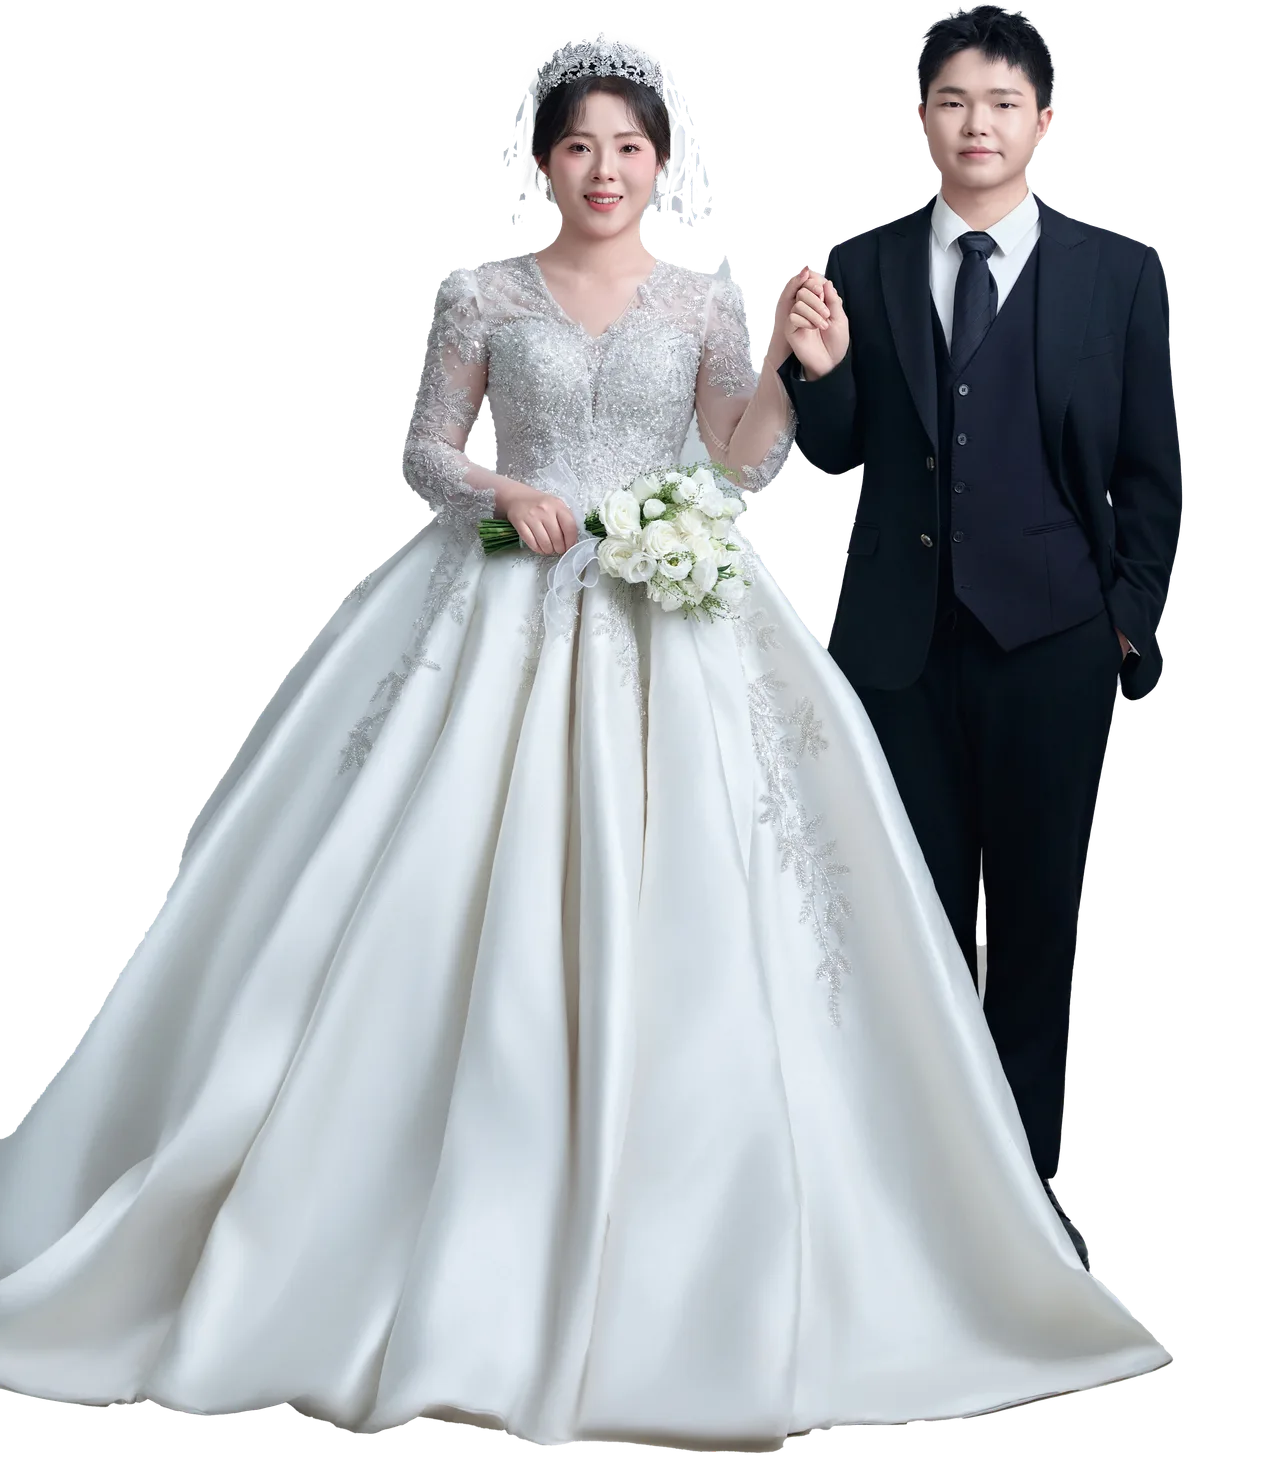
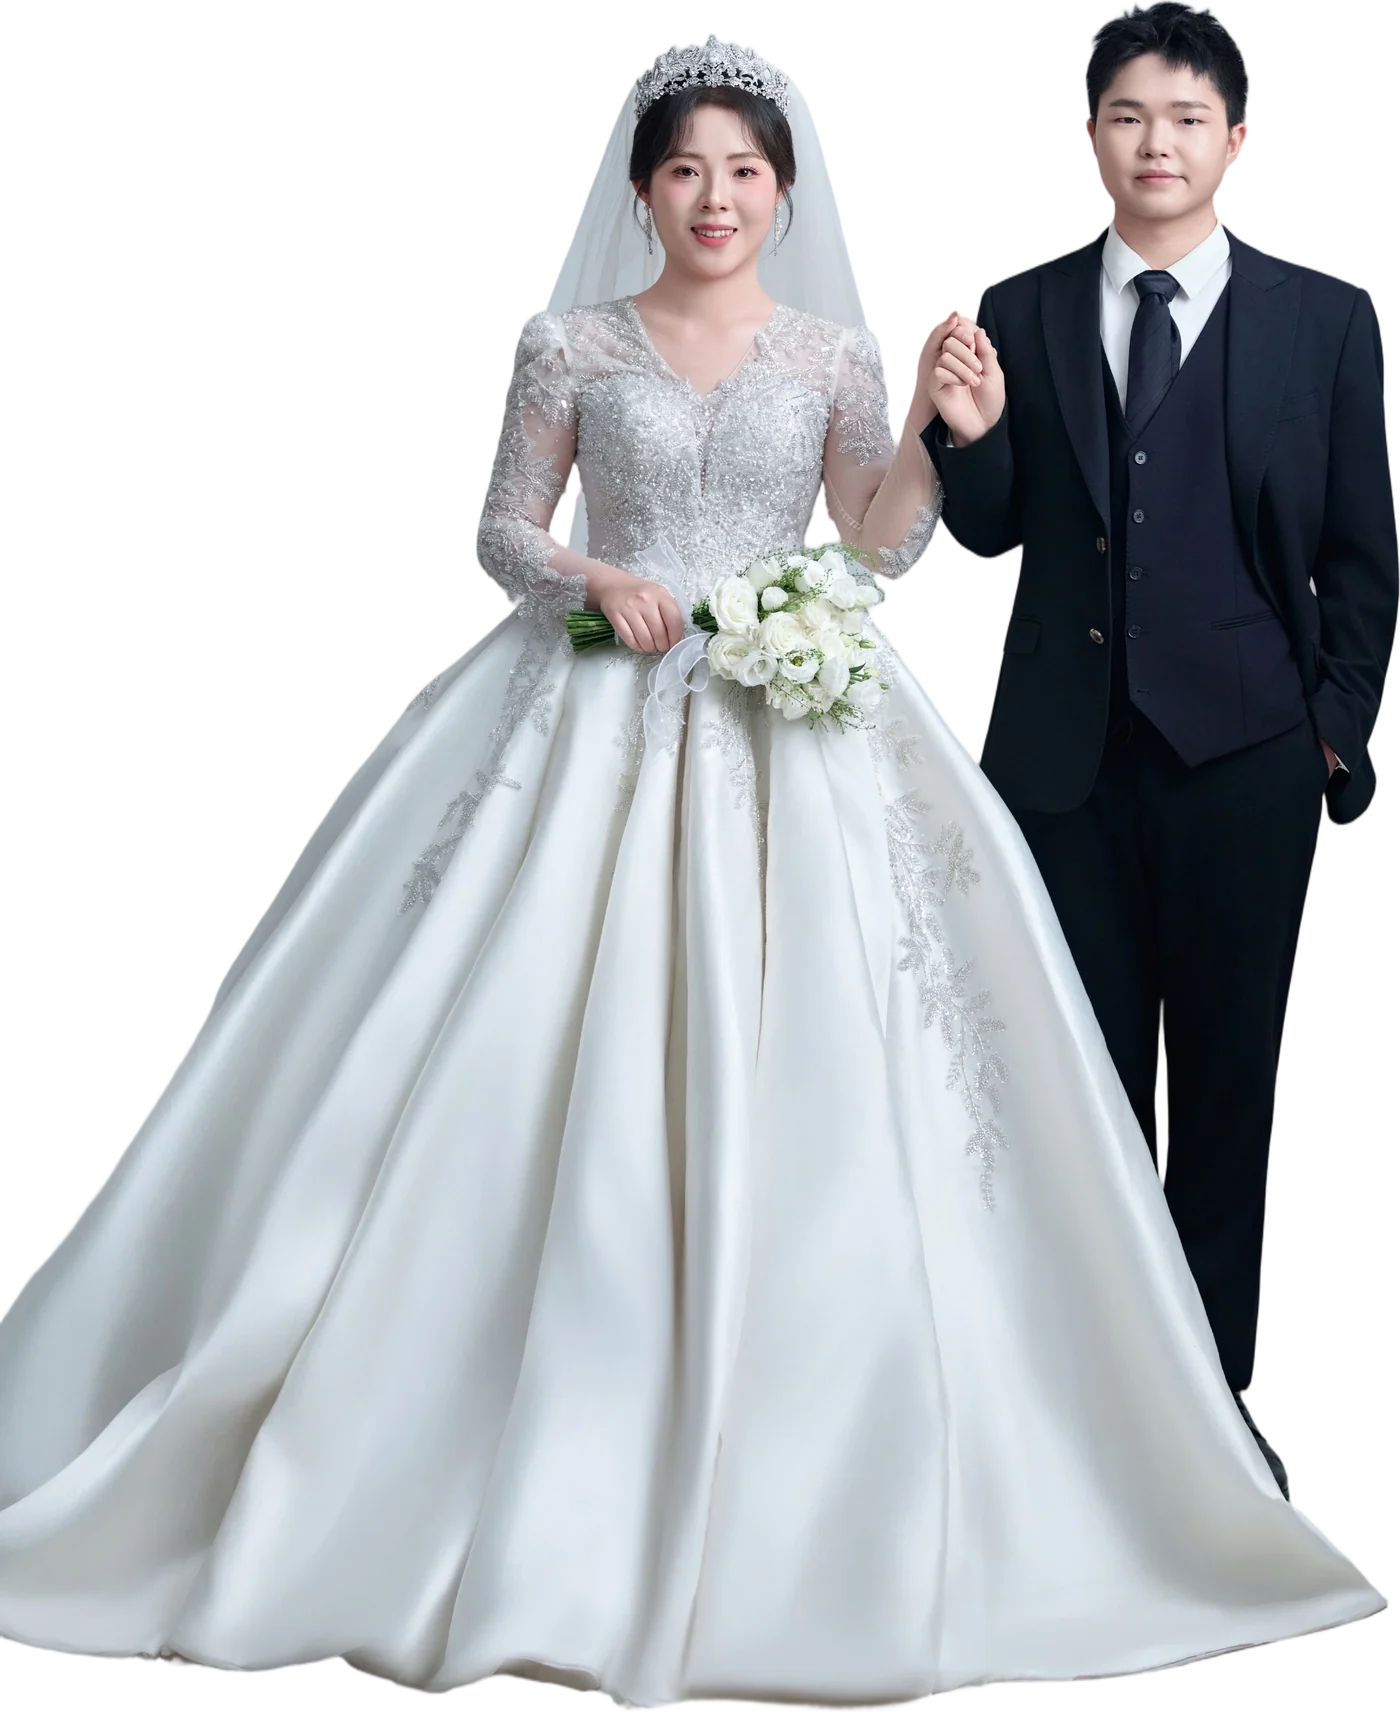
Update closing portrait cutout and processing pipeline
Replace the closing webp with a transparent cutout export, add a reproducible optimize script, and tune closing photo styles for clearer edges and stable placement.

diff --git a/src/styles.css b/src/styles.css
@@ -326,7 +326,7 @@ a {
   display: grid;
   gap: 13px;
   place-items: center;
-  width: min(82vw, 320px);
+  width: min(92vw, 360px);
   min-height: 300px;
   padding: 54px 24px;
   color: var(--rose);
@@ -357,9 +357,10 @@ a {
 .music-gate-button strong {
   color: #7a5b52;
   font-family: "STSong", "Songti SC", "Noto Serif SC", serif;
-  font-size: clamp(2.1rem, 10vw, 3.25rem);
+  font-size: clamp(1.75rem, 6.8vw, 3.25rem);
   font-weight: 500;
-  letter-spacing: 0.08em;
+  letter-spacing: 0.06em;
+  white-space: nowrap;
   text-shadow: 0 14px 34px rgba(158, 88, 80, 0.14);
 }
 
@@ -2717,9 +2718,7 @@ h2 {
   z-index: 1;
   pointer-events: none;
   content: "";
-  background:
-    linear-gradient(180deg, rgba(255, 246, 241, 0.46), rgba(255, 246, 241, 0) 12%),
-    linear-gradient(90deg, rgba(255, 242, 237, 0.42), transparent 16%, transparent 84%, rgba(255, 242, 237, 0.42));
+  background: linear-gradient(90deg, rgba(255, 242, 237, 0.28), transparent 16%, transparent 84%, rgba(255, 242, 237, 0.28));
 }
 
 .closing-photo img {
@@ -2728,7 +2727,9 @@ h2 {
   max-width: none;
   height: auto;
   margin-left: clamp(-54px, -12vw, -42px);
-  filter: sepia(0.01) saturate(0.99) contrast(1.03) brightness(1);
+  object-fit: contain;
+  object-position: center bottom;
+  filter: none;
 }
 
 .closing-section > * {
